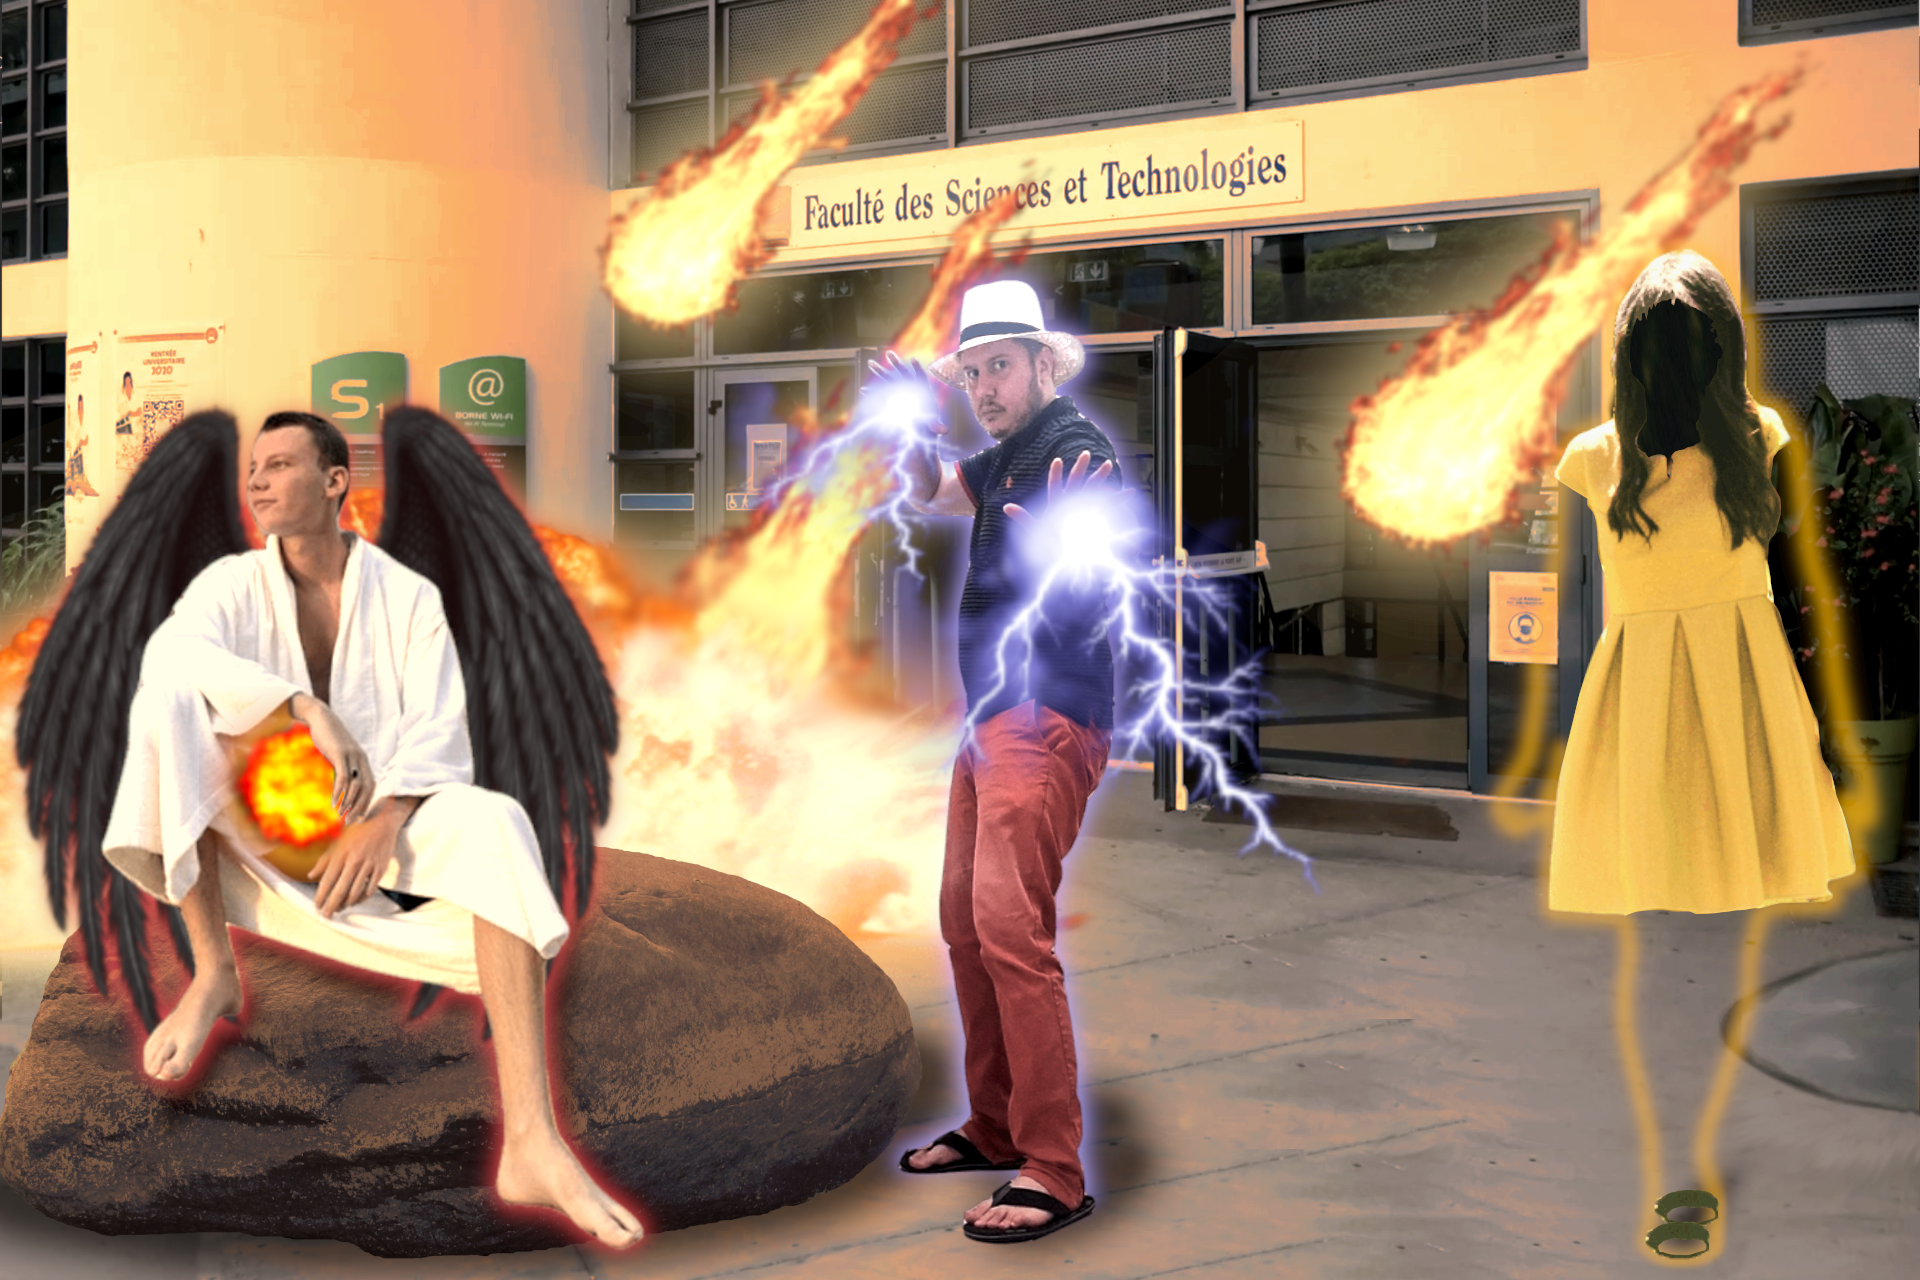
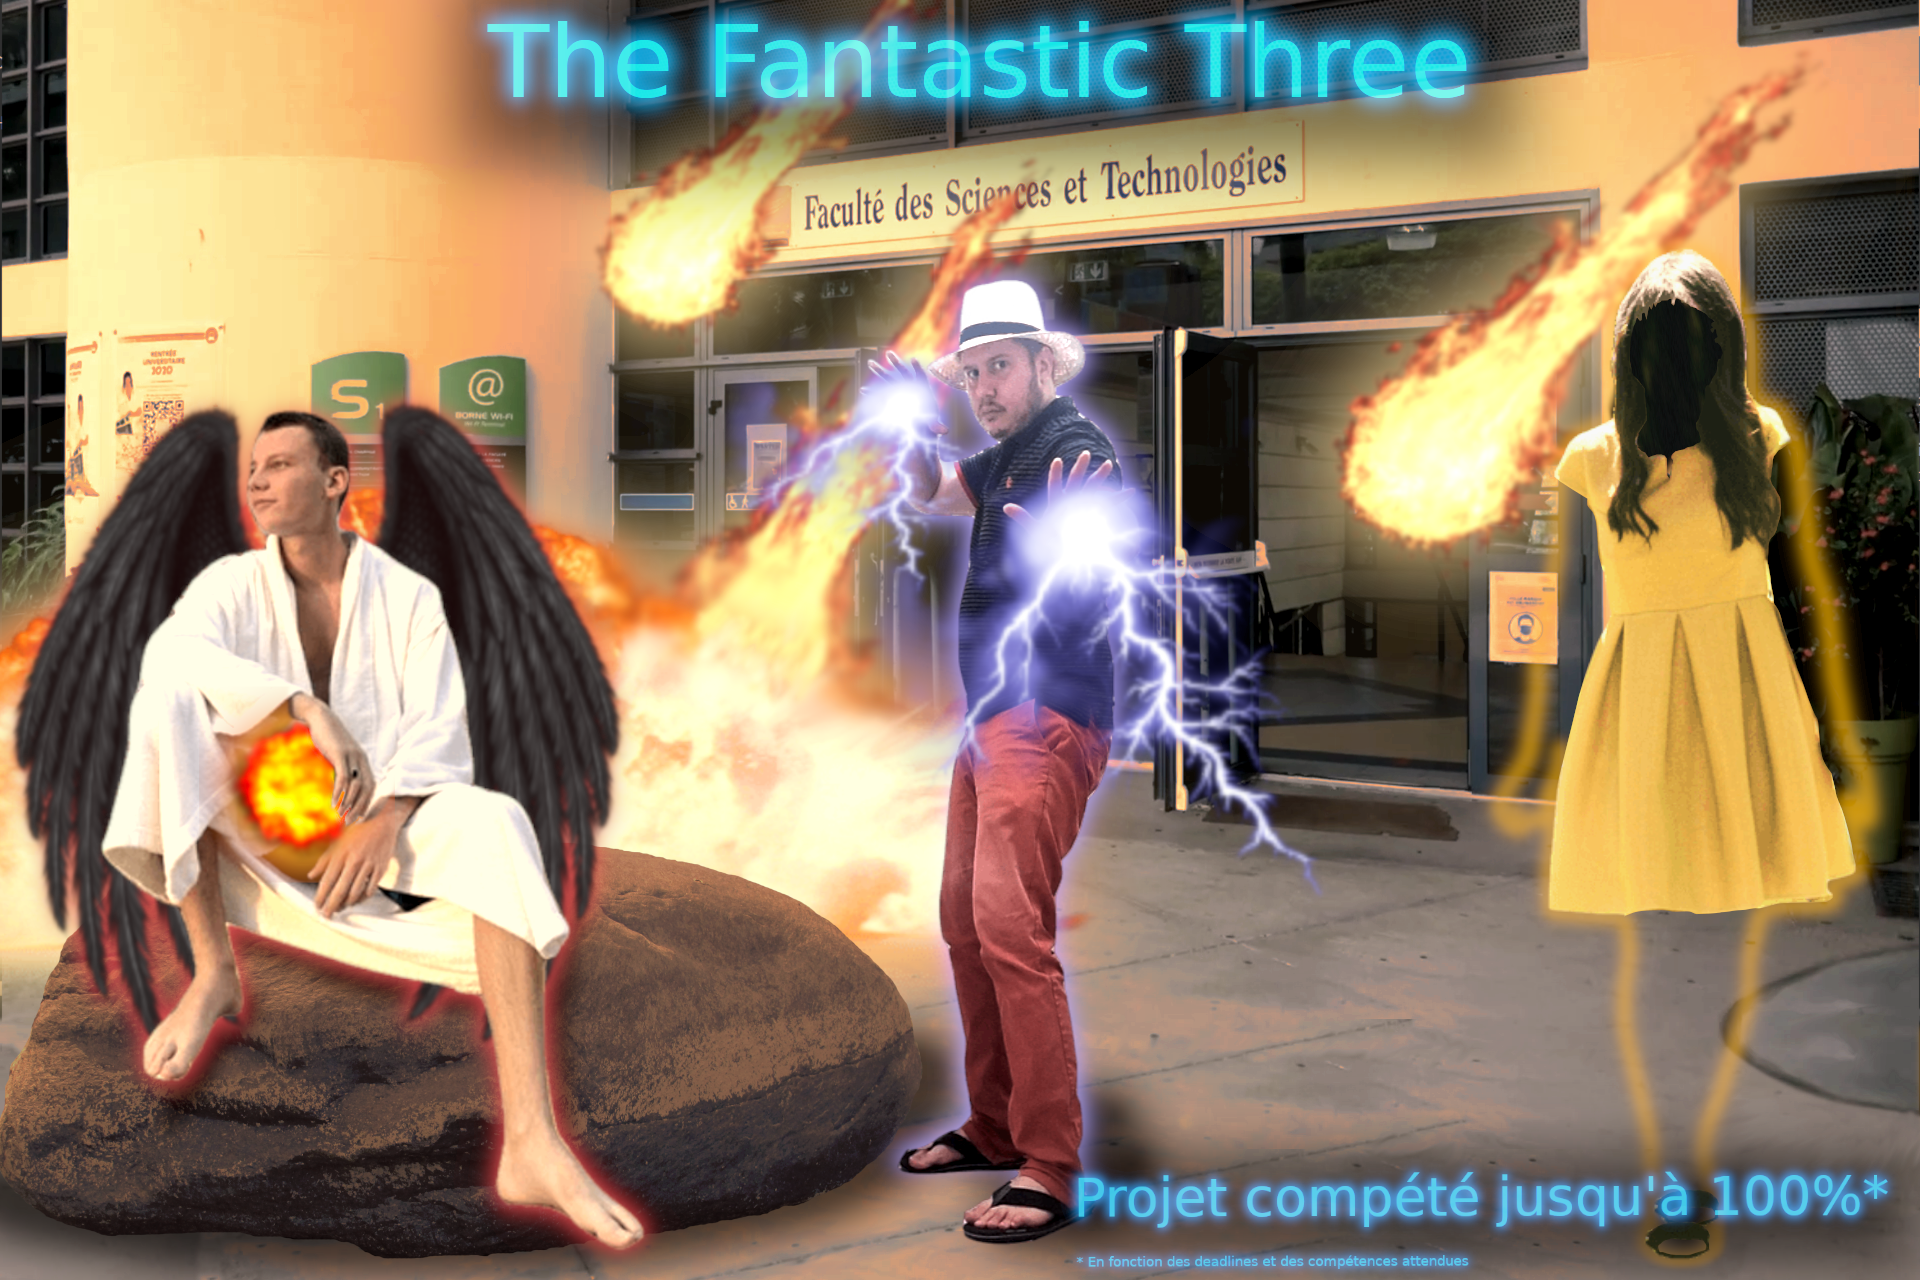
poster final

Changed region(s): [[0.2188, 0.0, 0.8125, 0.1562], [0.5312, 0.875, 1.0, 1.0]]

diff --git a/index.html b/index.html
@@ -15,7 +15,6 @@
 <body>
 
     <div class="display-box-top" style="text-align:center ;">
-        <h4 id="name">The fantastic three</h4>
         <div class="typing">
             <h5 id="desc">La team de super developers</h5>
         </div>
@@ -103,7 +102,7 @@
                 <h2>PyCalculator3000</h2>
                 <h3>Donovan & Pierre</h3>
                     <p>Nous avons codé un calculateur python capable de retourner le résultat d'une addition <strong>et</strong> d'une soustraction.
-                        Projet complété à 100% (en fonction du temps disponible et des compétences requises).</p>
+                        Projet complété à 100%.</p>
                         <h6 class="date">2018 - 2023</p>
                     </div>
             </div>

diff --git a/css/main.css b/css/main.css
@@ -253,18 +253,18 @@ h6 {
 
 #name {
     font-family: 'Combo', cursive;
-    color: var(--background);
-    font-size: 1.5em;
+    color: rgb(220, 234, 234);
+    font-size: 3.5em;
     text-shadow: var(--background) 1px 0 15px;
 }
 
 #desc {
-    color: var(--background);
+    color: rgb(252, 252, 252);
     font-family: 'Roboto Mono', monospace;
     font-weight: 1000;
     margin-left: 1em;
     margin-right: 1em;
-    font-size: 1em;
+    font-size: 3em;
 }
  /* --------------------------- FONT --------------------------- */
   
